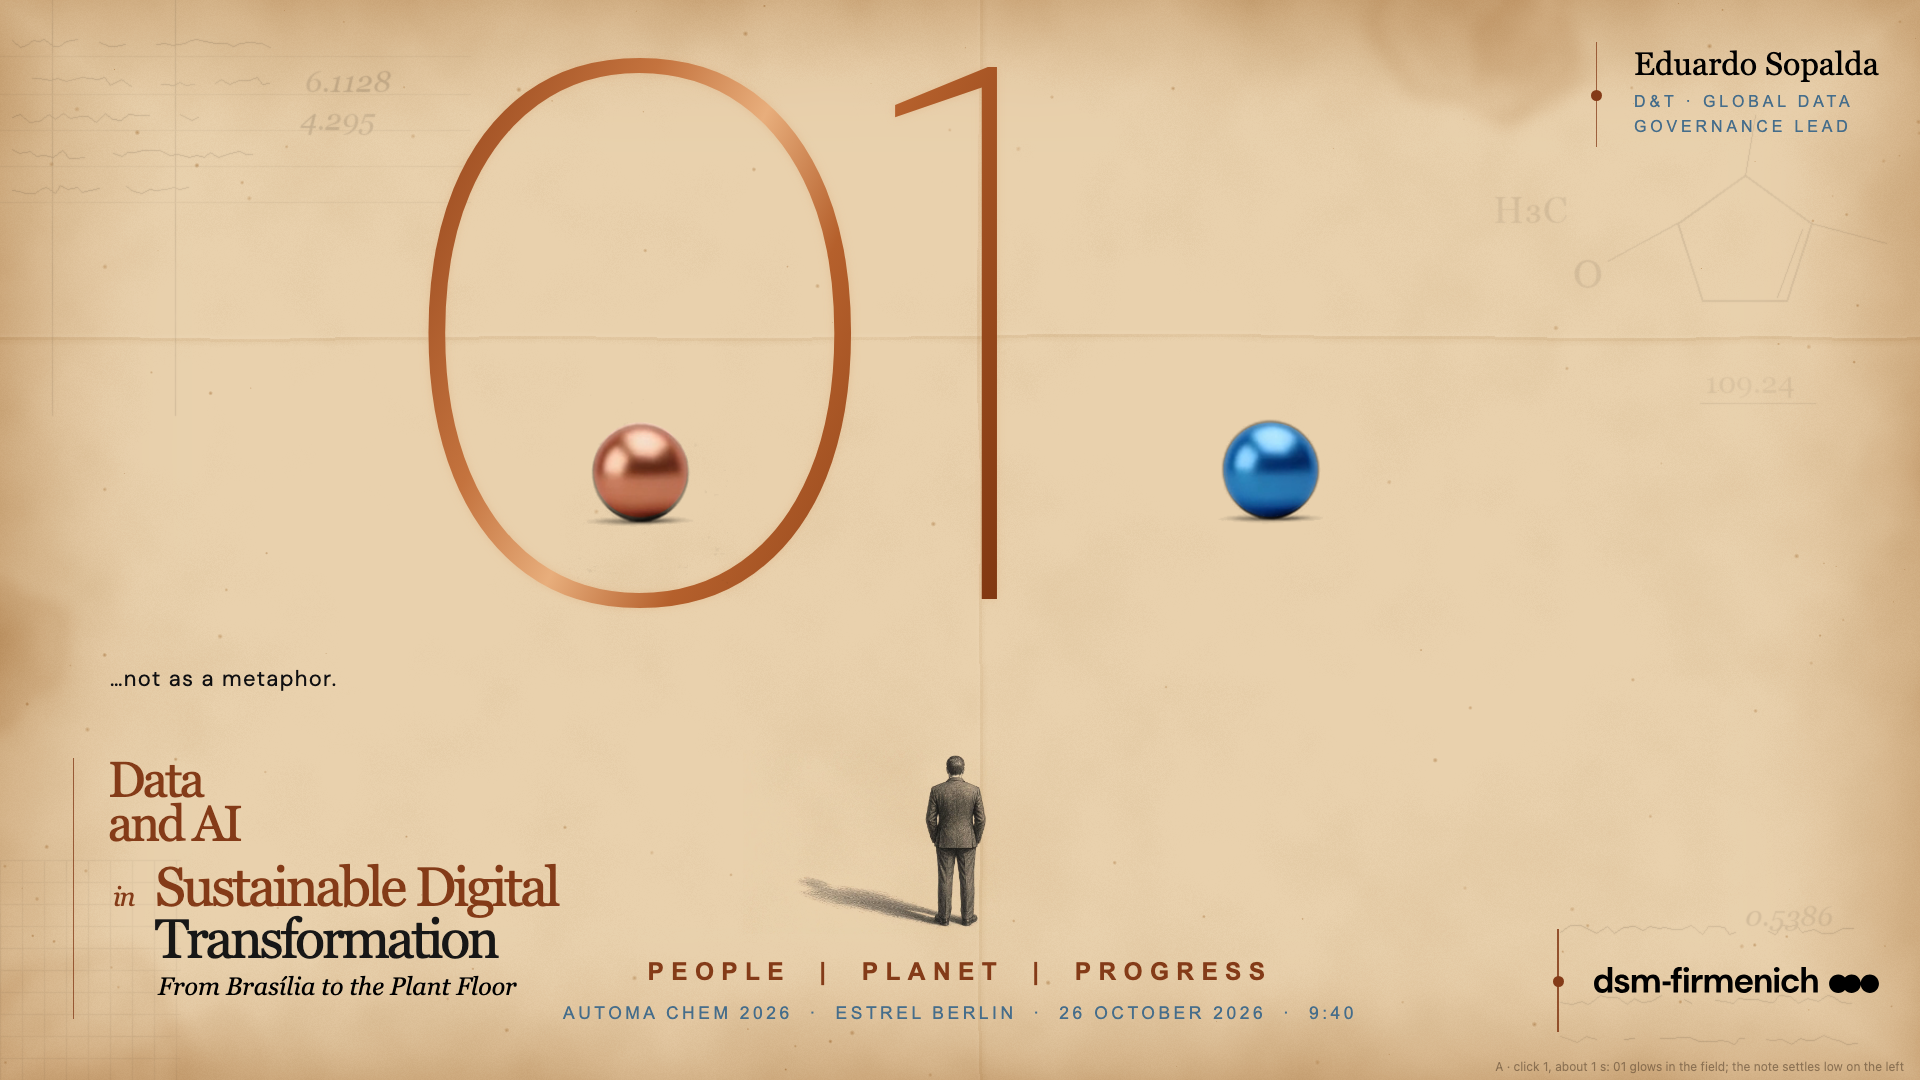
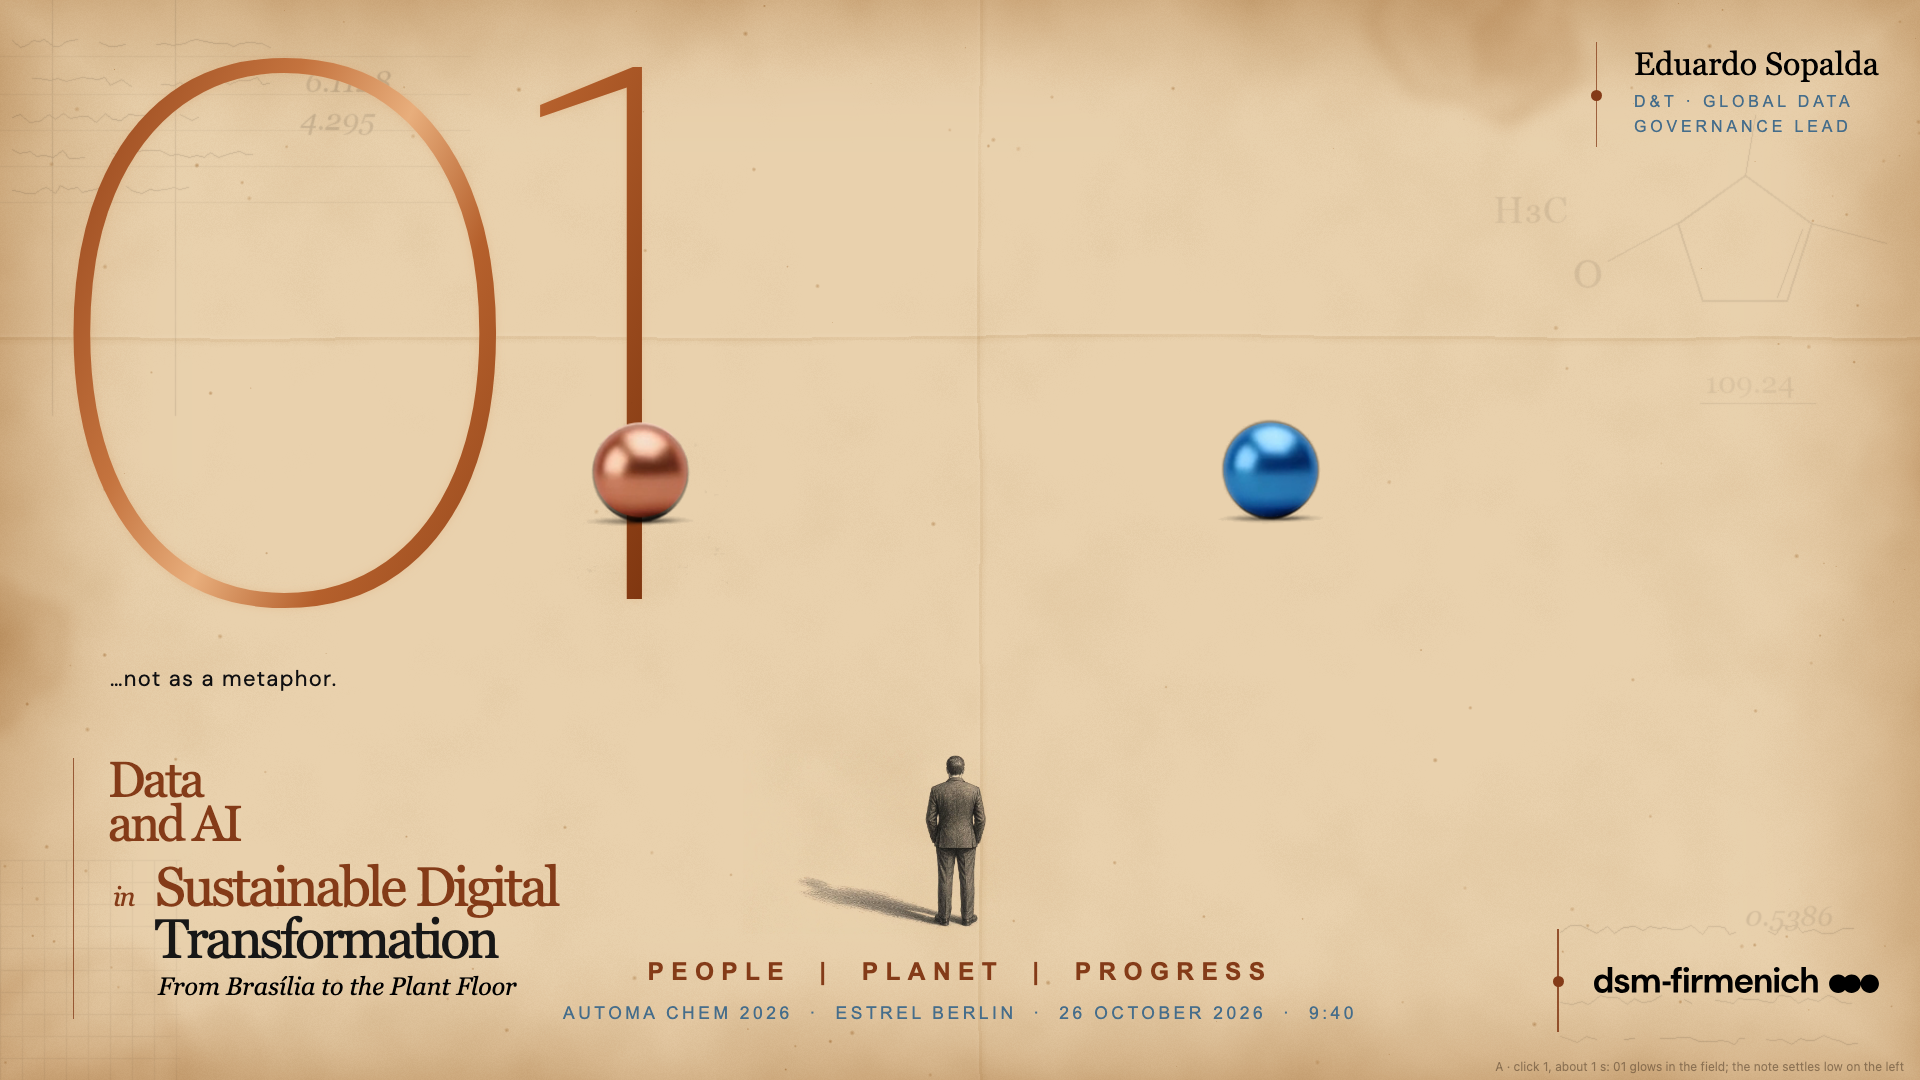
Act 1 stills: 01 on the title rule; the plan fans out of the man and bends upright
- 01 ink aligned exactly with the title's vertical rule (x 73)
- F1 to F3: every plan line starts at the man, fans out, bends from the floor into the upright
  sheet (perspective trick), ending on E; the spheres flinch, back away and end cornered

diff --git a/act1/stills.html b/act1/stills.html
@@ -18,7 +18,7 @@
   .ink{mix-blend-mode:multiply}
 
   /* 01: DM Sans Thin, heated copper, no bloom */
-  .one{left:392px;top:36px;font:100 760px/0.8 "DM Sans",sans-serif;letter-spacing:-.02em;
+  .one{left:37px;top:36px;font:100 760px/0.8 "DM Sans",sans-serif;letter-spacing:-.02em;
        background:linear-gradient(115deg,#8a3a12 0%,#c4733e 30%,#e8ae7c 44%,#b5602c 58%,#762F0B 100%);
        -webkit-background-clip:text;background-clip:text;color:transparent;
        filter:drop-shadow(0 0 5px rgba(216,156,103,.30))}
@@ -94,6 +94,42 @@ const LABELS = [[248, 140, "Ministry of Governance"], [335, 140, "Executive Dire
   [421, 302, "Ministry of Governance"], [502, 310, "Ministry of Governance"], [250, 359, "Operational Risk"],
   [332, 359, "Executive Direction"], [1761, 819, "Plant Interface Zone"]];
 function labels() { for (const [x, y, t] of LABELS) { const [X, Y] = F(x, y); const w = t.startsWith("Plant"); add(`<div class="abs lbl" style="left:${X - (w ? 45 : 28)}px;top:${Y - 6}px;${w ? "width:90px" : ""}">${w ? t : t.replace(" of ", " of<br>").replace("Executive ", "Executive<br>").replace("Operational ", "Operational<br>")}</div>`); } }
+
+// ---- The perspective fan: every line starts at the man, fans out, bends, and becomes the upright plan ----
+const LM = { v: [106.1,129.6,374.1,458.3,541.0,590.0,625.9,669.1,708.6,758.4,792.8,875.5,894.6,920.9,939.2,1073.9,1093.0,1109.1,1131.0,1176.4,1213.8,1255.5,1295.0,1344.8,1381.4,1423.1,1462.7,1549.0,1631.0,1884.3,1907.0],
+             h: [95.2,113.5,392.4,475.1,557.1,641.3,720.4,801.6,964.1,1022.7] };
+const P0 = [955, 752];                                   // the man: the single point everything comes from
+const ease = (x) => x * x * (3 - 2 * x);
+const lerp = (a, b, k) => a + (b - a) * k;
+// A plan point (x in 2000 px space, v = 0 at the plan's bottom edge, 1 at its top) at stage t (0 = fan from the man, 1 = upright plan)
+function warp(x, v, t, lin = false) {
+  const [fx, fyTop] = F(x, 86), fyBot = F(x, 1045)[1];
+  const e = ease(t);
+  const B = [lerp(P0[0], fx, e), lerp(P0[1], fyBot, e)];             // the line's foot slides out of the man
+  const T = [fx, fyTop];
+  const C = [lerp(P0[0] + (fx - P0[0]) * 0.15, fx, e), lerp(lerp(P0[1], fyTop, 0.35), lerp(fyBot, fyTop, 0.5), e)];   // bends from a fan into an upright
+  const w = lin ? v : Math.pow(v, 1 + 2.4 * (1 - e));                          // perspective: near the man the plan is foreshortened
+  const u = 1 - w;
+  return [u * u * B[0] + 2 * u * w * C[0] + w * w * T[0], u * u * B[1] + 2 * u * w * C[1] + w * w * T[1]];
+}
+function fan(t, grow = 1) {
+  const ink = "#3a4b7a";
+  let paths = "";
+  const N = 40;
+  for (const x of LM.v) {
+    const pts = []; for (let i = 0; i <= N * grow; i++) pts.push(warp(x, i / N, t, grow < 1));
+    paths += `<polyline points="${pts.map((p) => p.map((n) => n.toFixed(1)).join(",")).join(" ")}" fill="none" stroke="${ink}" stroke-width="1.3" opacity="0.8"/>`;
+  }
+  if (grow >= 1) for (const y of LM.h) {
+    const v = 1 - (y - 86) / 959;
+    const xs = []; for (let x = 106; x <= 1907; x += 30) xs.push(warp(x, v, t));
+    paths += `<polyline points="${xs.map((p) => p.map((n) => n.toFixed(1)).join(",")).join(" ")}" fill="none" stroke="${ink}" stroke-width="1.1" opacity="0.7"/>`;
+  }
+  const axis = []; for (let i = 0; i <= N * grow; i++) axis.push(warp(AXIS, i / N, t, grow < 1));
+  paths += `<polyline points="${axis.map((p) => p.join(",")).join(" ")}" fill="none" stroke="#762F0B" stroke-width="2.4"/>`;
+  add(`<svg class="abs ink" width="1920" height="1080" style="left:0;top:0">${paths}</svg>`);
+}
+
 const note = () => add(`<div class="abs note">…not as a metaphor.</div>`);
 const cap = (t) => add(`<div class="cap">${t}</div>`);
 
@@ -114,6 +150,10 @@ if (s === "E") {
   sphere("copper", ...HOME.copper); sphere("blue", ...HOME.blue); note();
   cap("E · click 3 end: the plan is complete; the statement sits in the column; the avenue in front of him stays empty");
 }
+
+if (s === "F1") { fan(0.0, 0.6); column(0.5); sphere("copper", 610, 440, 45); sphere("blue", 1300, 470, 45); note(); cap("F1 · click 2 begins: lines leave the man and fan out across the field; the spheres flinch"); }
+if (s === "F2") { fan(0.45); column(1); sphere("copper", 470, 250, 42); sphere("blue", 1420, 610, 42); note(); cap("F2 · the fan bends: the plan lifts from the floor toward the upright; the spheres back away"); }
+if (s === "F3") { fan(0.82); column(1); sphere("copper", ...HOME.copper); sphere("blue", ...HOME.blue); note(); cap("F3 · almost upright: the spheres are cornered in Governance and the Plant zone"); }
 </script>
 </body>
 </html>
